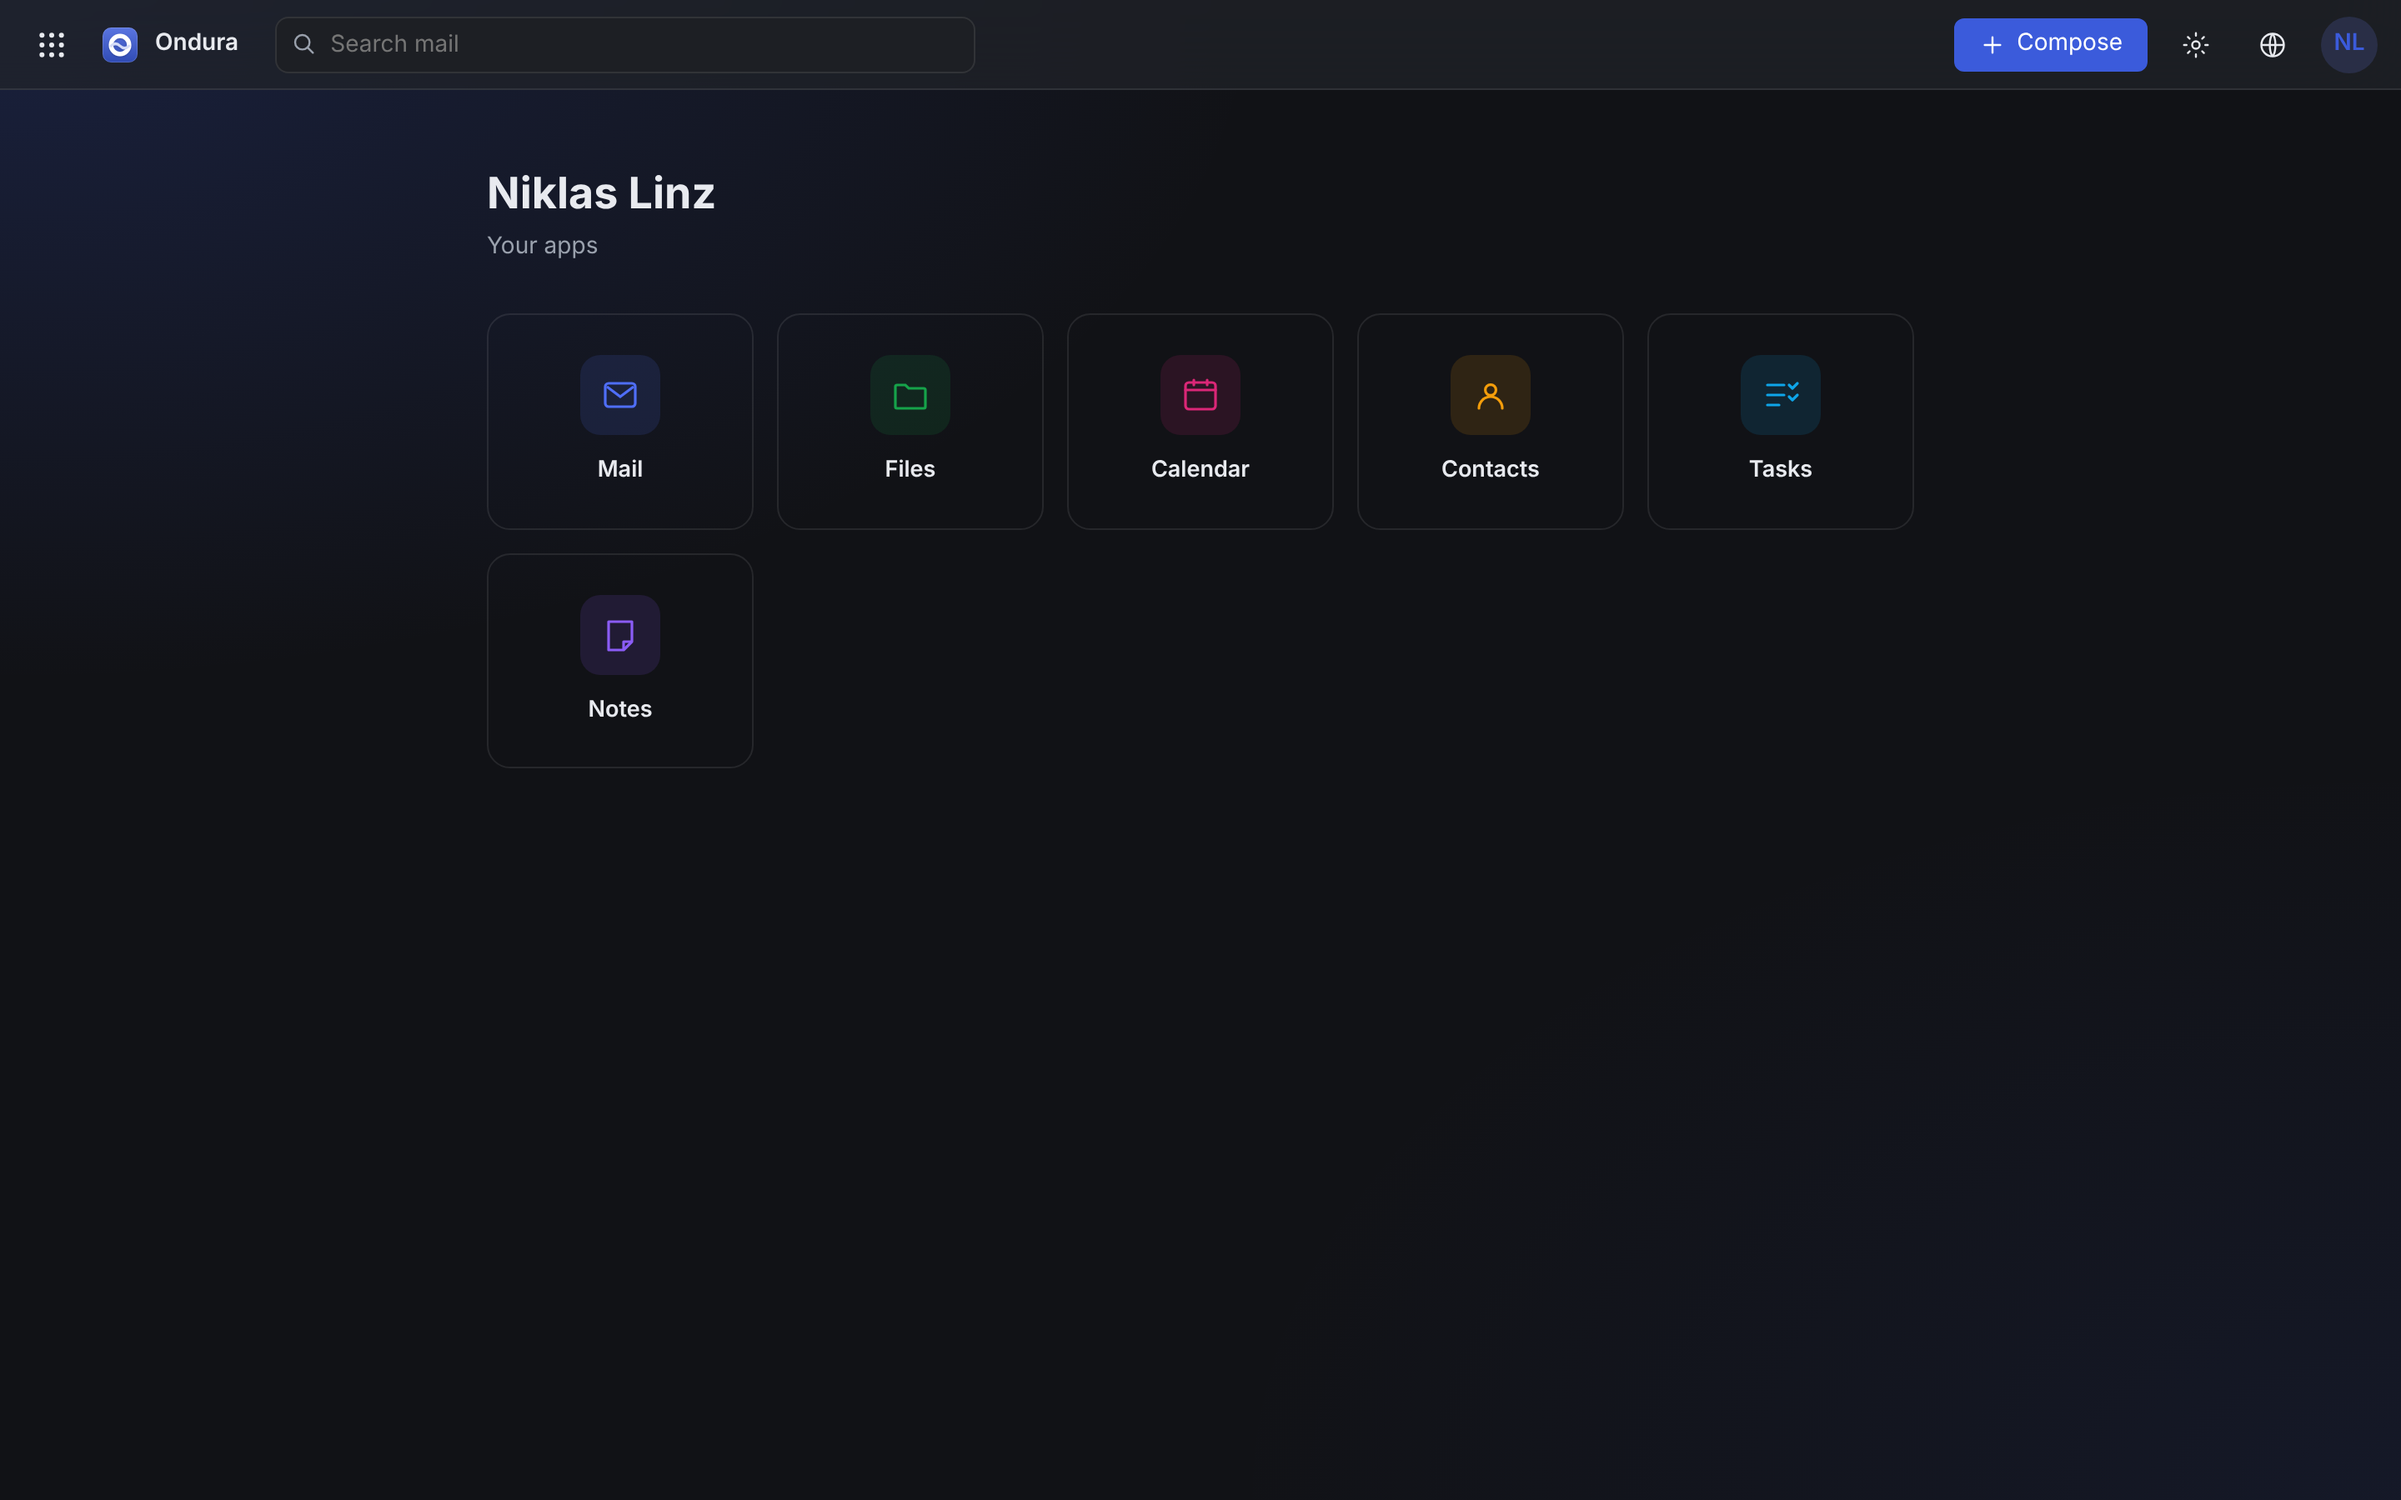
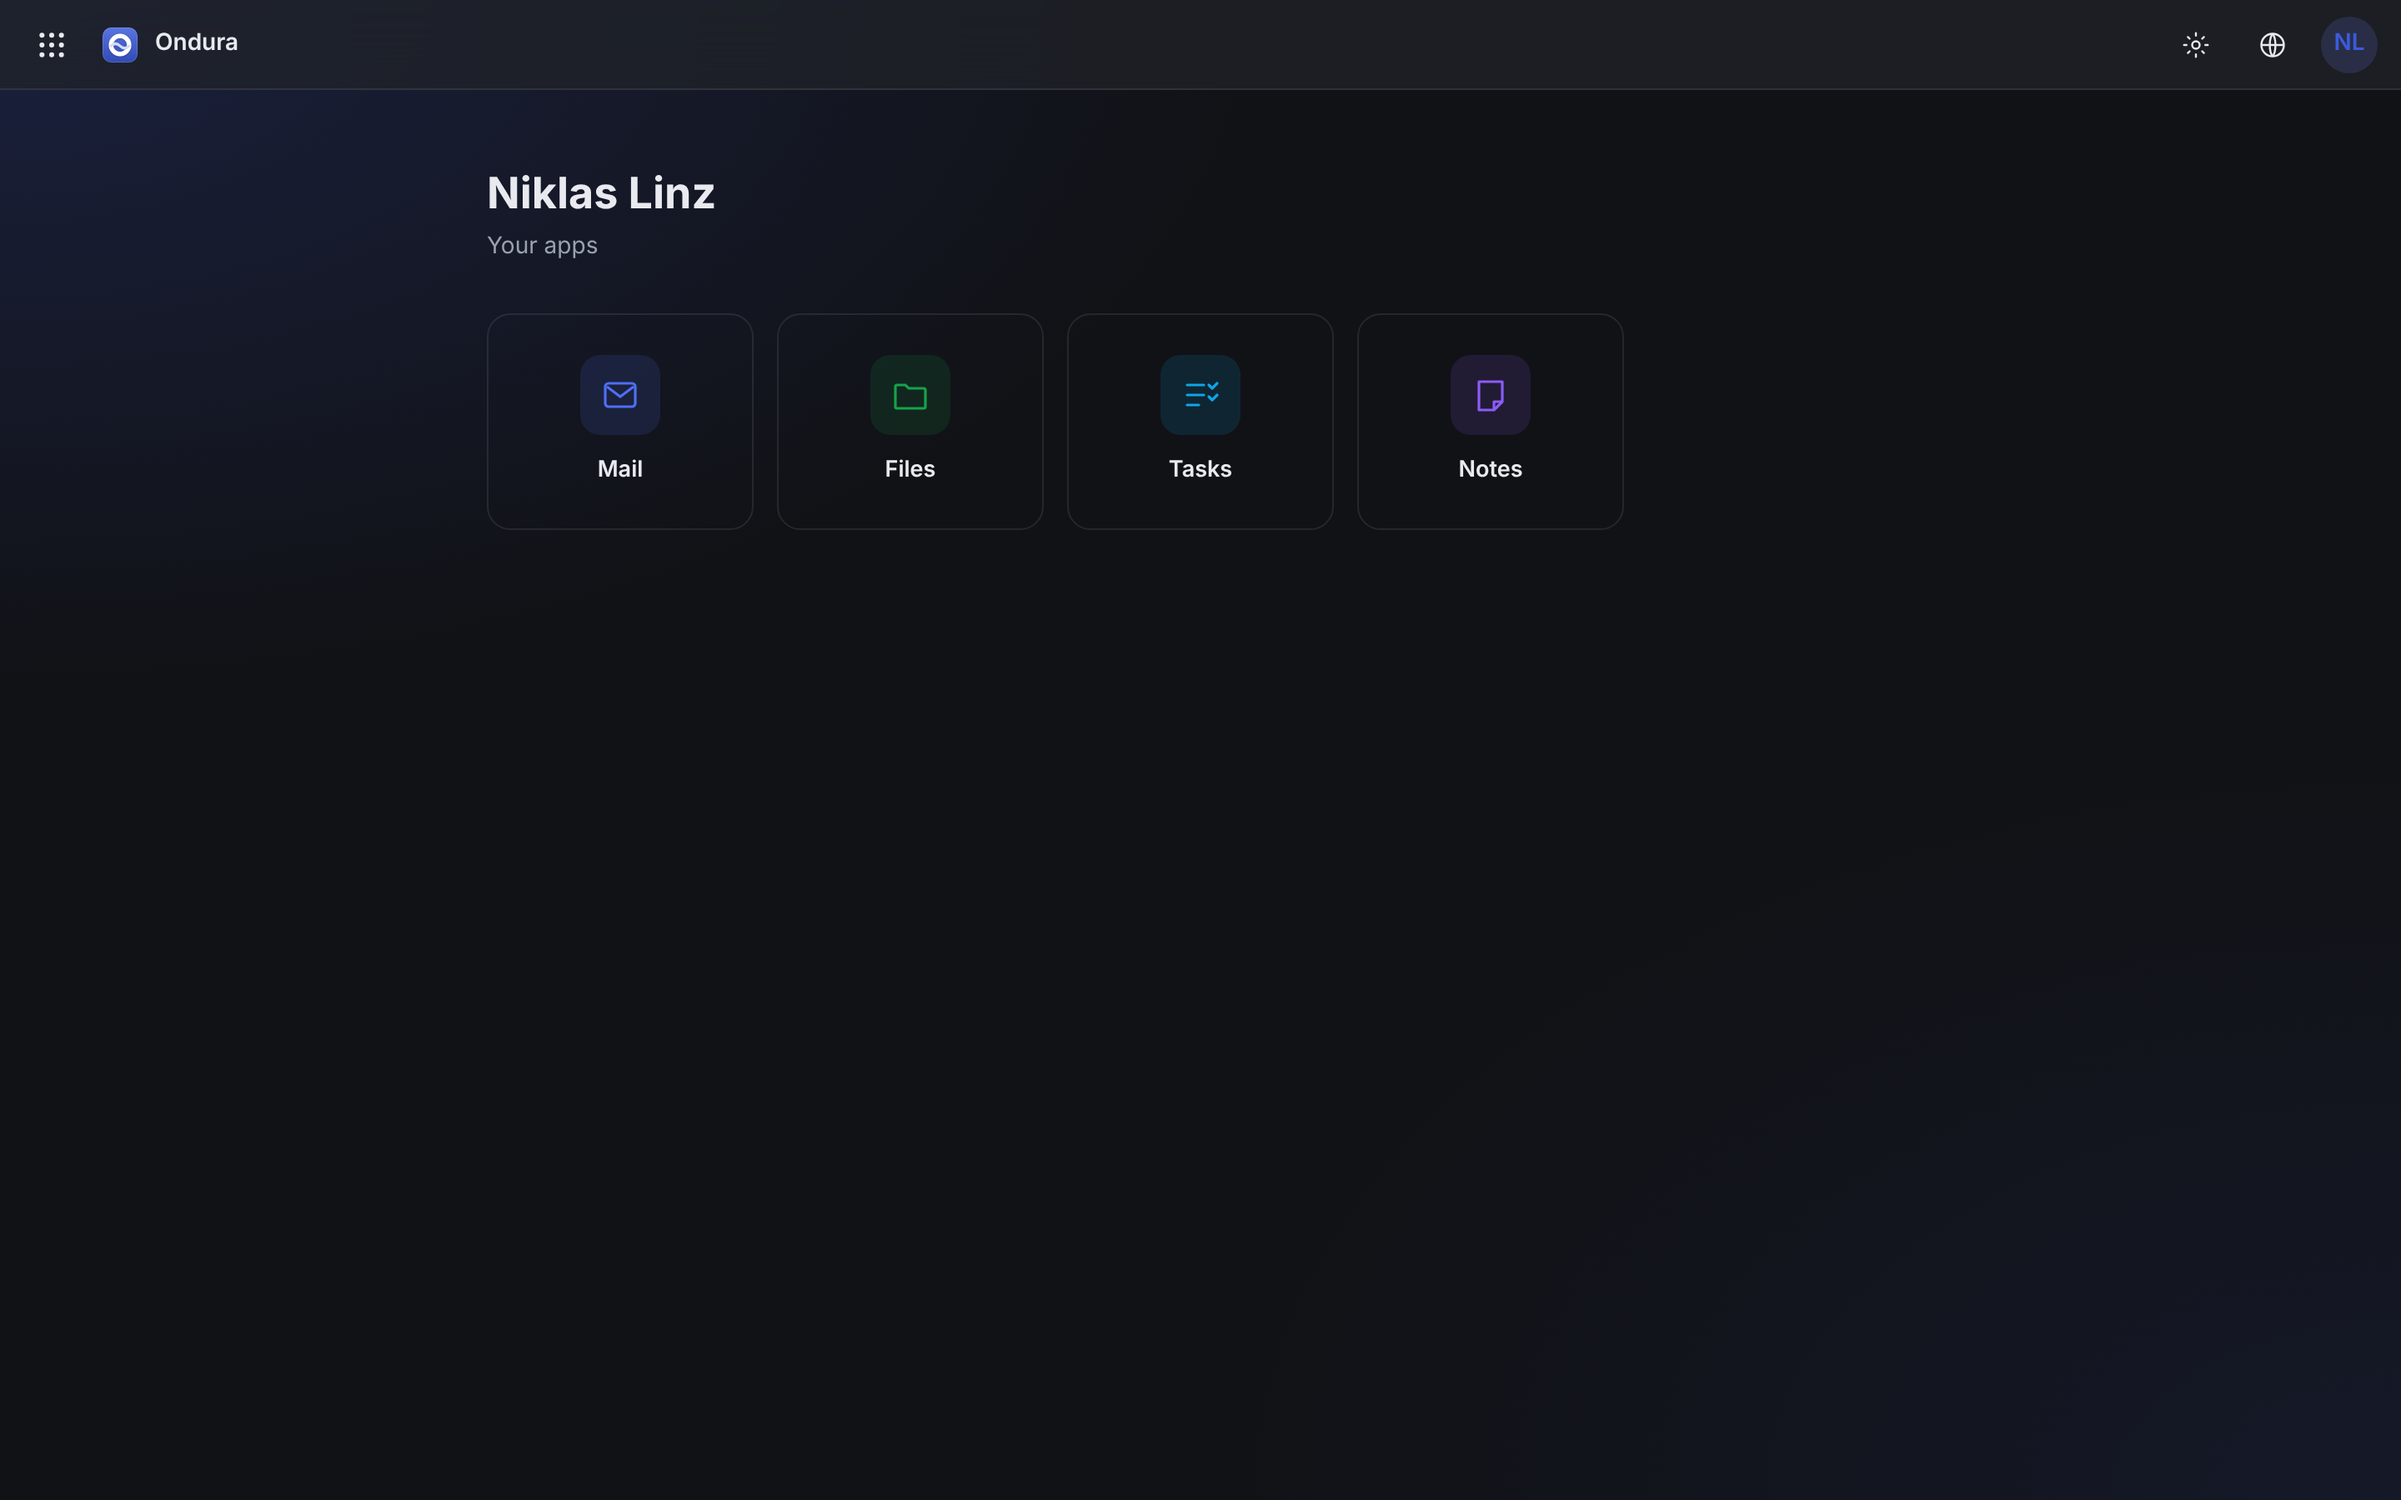
Group webmail into Outlook-style apps and scope the top bar
The home dashboard now lists real apps: Mail (which bundles mail, calendar
and contacts, like Outlook) and separate Files, Tasks and Notes apps. The
Mail app has its own inner navigation for mail, calendar and contacts. The
Compose button and mail search appear only inside the Mail app, not on the
dashboard or in the other apps. Screenshots refreshed.

diff --git a/crates/server/src/webmail/index.html b/crates/server/src/webmail/index.html
@@ -519,7 +519,11 @@ async function capi(method, path, body) {
 }
 
 // ------------------------------------------------------------ state
-let me = null, view = "mail", folders = [], curFolder = null, curMsg = null, messages = [];
+let me = null, view = "home", folders = [], curFolder = null, curMsg = null, messages = [];
+// The Mail app bundles mail, calendar and contacts (like Outlook). Tasks, Notes
+// and Files are separate apps.
+const MAIL_VIEWS = ["mail", "calendar", "contacts"];
+function inMailApp(v) { return MAIL_VIEWS.includes(v); }
 let selected = new Set();
 let categories = [], catFilter = null, msgFilter = "all";
 let threaded = false; try { threaded = localStorage.getItem("ondura-mail-threads") === "1"; } catch (e) {}
@@ -703,12 +707,17 @@ function mailFolders() {
 // from the home dashboard or the app launcher.
 function renderRail() {
   let html = "";
-  if (view === "mail") {
-    html += `<div class="folder" id="addFolder" style="color:var(--muted)">${icon("plus")}<span class="nm">${esc(t("newFolder"))}</span></div>`;
-    html += mailFolders().map((f) => {
-      const custom = !f.role;
-      return `<div class="folder ${curFolder && f.id === curFolder.id ? "active" : ""}" data-folder="${f.id}">${icon(f.role || "folder")}<span class="nm">${esc(folderLabel(f))}</span>${custom ? `<button class="iconbtn fmenu" data-fid="${f.id}" data-fname="${esc(f.name)}" style="width:22px;height:22px">${icon("dots")}</button>` : ""}${f.unread ? `<span class="ct">${f.unread}</span>` : ""}</div>`;
-    }).join("");
+  if (inMailApp(view)) {
+    // Inner navigation of the Mail app (Outlook-style): mail, calendar, contacts.
+    const inner = [["mail", "mail"], ["calendar", "calendar"], ["contacts", "contacts"]];
+    html += inner.map(([k, ic]) => `<div class="navitem ${view === k ? "active" : ""}" data-view="${k}">${icon(ic)}<span>${esc(t(k))}</span></div>`).join("");
+    if (view === "mail") {
+      html += `<div class="railsep"></div><div class="folder" id="addFolder" style="color:var(--muted)">${icon("plus")}<span class="nm">${esc(t("newFolder"))}</span></div>`;
+      html += mailFolders().map((f) => {
+        const custom = !f.role;
+        return `<div class="folder ${curFolder && f.id === curFolder.id ? "active" : ""}" data-folder="${f.id}">${icon(f.role || "folder")}<span class="nm">${esc(folderLabel(f))}</span>${custom ? `<button class="iconbtn fmenu" data-fid="${f.id}" data-fname="${esc(f.name)}" style="width:22px;height:22px">${icon("dots")}</button>` : ""}${f.unread ? `<span class="ct">${f.unread}</span>` : ""}</div>`;
+      }).join("");
+    }
   } else if (view === "files") {
     const drives = (typeof fs !== "undefined" && fs.drives) ? fs.drives : [];
     html += drives.map((d) => `<div class="navitem ${fs.driveId === d.id ? "active" : ""}" data-drive="${d.id}">${icon(d.kind === "personal" ? "folder" : "share")}<span>${esc(d.kind === "personal" ? t("myFiles") : d.name)}</span></div>`).join("");
@@ -728,13 +737,13 @@ function renderRail() {
   const rnl = $("#railNewLib"); if (rnl) rnl.onclick = guard(async () => { const name = prompt(t("libraryName")); if (!name) return; const r = await api("POST", "/cloud/library", { name: name.trim() }); fs.drives = []; fs.driveId = r.id; fs.parent = null; renderFiles(); });
 }
 
-// The apps shown on the home dashboard and in the app launcher.
+// Top-level apps shown on the home dashboard and in the app launcher. Mail is
+// one app (mail, calendar and contacts inside it); Files, Tasks and Notes are
+// their own apps.
 function appList() {
   return [
     { k: "mail", ic: "mail", c: "#4f6ef7" },
     (me && me.cloud) ? { k: "files", ic: "folder", c: "#16a34a" } : null,
-    { k: "calendar", ic: "calendar", c: "#db2777" },
-    { k: "contacts", ic: "contacts", c: "#f59e0b" },
     { k: "tasks", ic: "tasks", c: "#0ea5e9" },
     { k: "notes", ic: "note", c: "#8b5cf6" },
   ].filter(Boolean);
@@ -758,8 +767,12 @@ function openApps() {
 }
 function render() {
   applyTexts();
-  const hasRail = view === "mail" || view === "files";
+  const mailApp = inMailApp(view);
+  const hasRail = mailApp || view === "files";
   document.getElementById("app").classList.toggle("norail", !hasRail);
+  // Compose and mail search belong to the Mail app only.
+  $("#composeBtn").style.display = mailApp ? "" : "none";
+  const sb = document.querySelector(".search"); if (sb) sb.style.display = mailApp ? "" : "none";
   renderRail();
   if (view === "home") renderHome();
   else if (view === "mail") renderMail();
